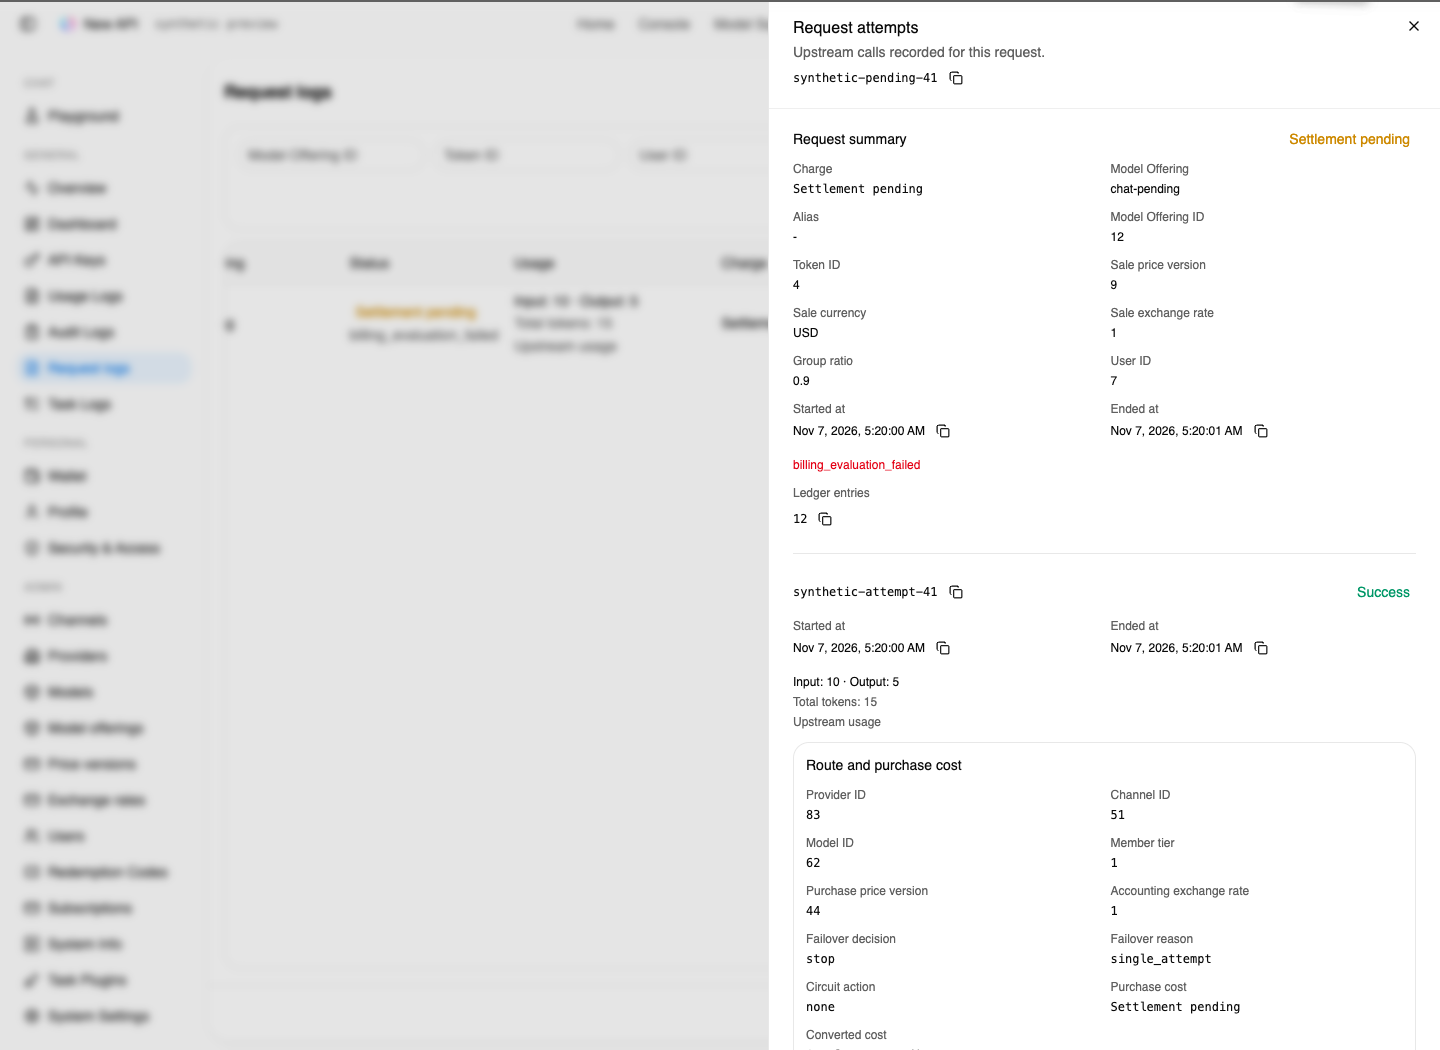
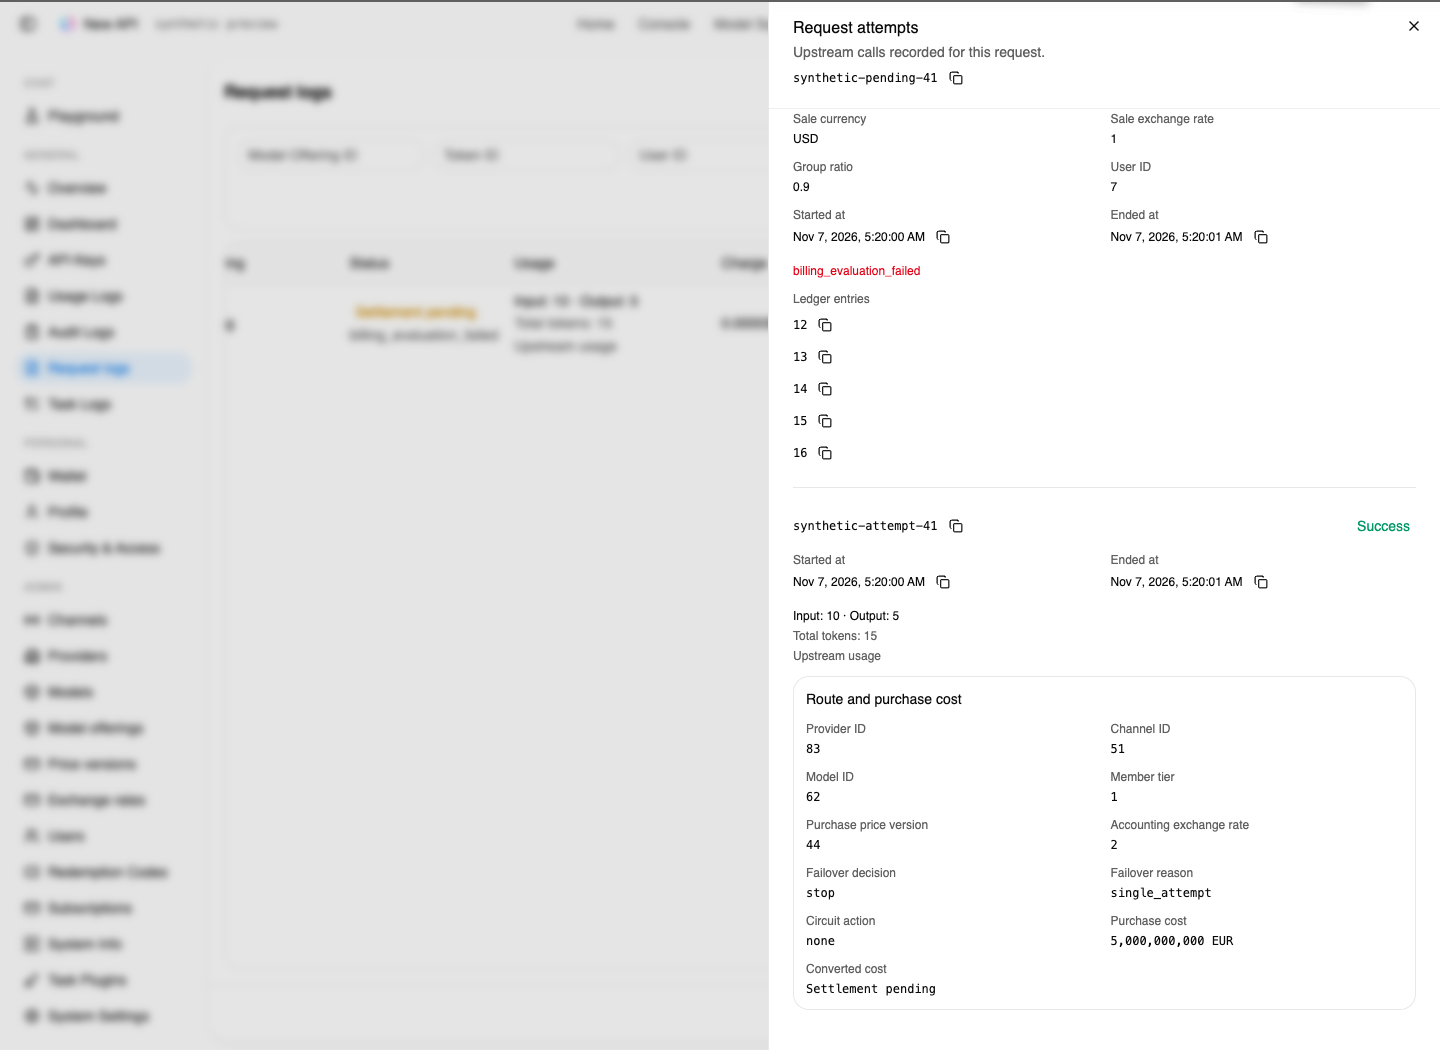
fix: post original-currency costs when accounting conversion overflows (#41)

diff --git a/web/src/features/usage-logs/requests/__tests__/requests.test.tsx b/web/src/features/usage-logs/requests/__tests__/requests.test.tsx
@@ -443,17 +443,19 @@ it('applies supported identity and millisecond date filters and resets them', as
   ).toHaveValue('')
 })
 
-it.each([true, false])(
-  'shows unresolved amounts distinctly from a known zero charge (sale_pending=%s)',
-  async (salePending) => {
-    useAuthStore
-      .getState()
-      .auth.setUser({
-        id: 7,
-        username: 'admin',
-        role: 10,
-        permissions: { admin_permissions: { request: { read: true } } },
-      })
+it.each([
+  { salePending: true, costPending: true },
+  { salePending: false, costPending: true },
+  { salePending: false, costPending: false },
+])(
+  'shows unresolved amounts distinctly from known amounts (sale_pending=$salePending cost_pending=$costPending)',
+  async ({ salePending, costPending }) => {
+    useAuthStore.getState().auth.setUser({
+      id: 7,
+      username: 'admin',
+      role: 10,
+      permissions: { admin_permissions: { request: { read: true } } },
+    })
     api.defaults.adapter = async (config) => {
       const url = new URL(api.getUri(config), 'http://localhost')
       return {
@@ -468,8 +470,13 @@ it.each([true, false])(
               ? [
                   {
                     ...internalAttempt,
-                    cost_pending: true,
-                    cost: { nanos: '0', currency: 'EUR' },
+                    cost_pending: costPending,
+                    converted_cost_pending: true,
+                    accounting_fx_rate: '2',
+                    cost: {
+                      nanos: costPending ? '0' : '5000000000000000000',
+                      currency: 'EUR',
+                    },
                     converted_cost: { nanos: '0', currency: 'USD' },
                   },
                 ]
@@ -506,9 +513,12 @@ it.each([true, false])(
     })
     await within(drawer).findByText(attempt.id)
     expect(within(drawer).queryByText('0 EUR')).not.toBeInTheDocument()
+    if (!costPending) {
+      expect(within(drawer).getByText('5,000,000,000 EUR')).toBeVisible()
+    }
     expect(
       within(drawer).getAllByText('Settlement pending').length
-    ).toBeGreaterThanOrEqual(3)
+    ).toBeGreaterThanOrEqual(2)
     if (salePending) {
       expect(within(drawer).queryByText('0 USD')).not.toBeInTheDocument()
     } else {

diff --git a/web/src/features/usage-logs/requests/components/attempt-admin-facts.tsx b/web/src/features/usage-logs/requests/components/attempt-admin-facts.tsx
@@ -62,7 +62,7 @@ export function AttemptAdminFacts(props: { attempt: RequestAttempt }) {
           <dd className='mt-1'>
             <RequestMoney
               amount={attempt.converted_cost}
-              pending={attempt.cost_pending}
+              pending={attempt.cost_pending || attempt.converted_cost_pending}
             />
           </dd>
         </div>

diff --git a/web/src/features/usage-logs/requests/types.ts b/web/src/features/usage-logs/requests/types.ts
@@ -76,6 +76,7 @@ export interface RequestAttempt {
   purchase_price_version_id?: number
   cost?: MoneyAmount
   cost_pending?: boolean
+  converted_cost_pending?: boolean
   accounting_fx_rate?: string
   converted_cost?: MoneyAmount
   failover_decision?: string

diff --git a/router/relay_router_test.go b/router/relay_router_test.go
@@ -4151,6 +4151,7 @@ func TestTextGatewayEvaluationFailureRetainsPendingAccounting(t *testing.T) {
 		{"mixed pricing condition failure", model.PriceOwnerOffering, `(len == 9 || 1 / (len - 10) > 0) ? tier("request",fixed(0.01)) : tier("tokens",p + c)`, 9000000},
 		{"sale overflow", model.PriceOwnerOffering, `(header("Content-Type") == "application/json" && len != 9) ? tier("overflow",p * (param("rate") ?? 1) + c * 10000000000000000) : tier("base",p * 2 + c * 4)`, 73800},
 		{"sale evaluation", model.PriceOwnerOffering, `len == 9 ? tier("base",p * 2 + c * 4) : tier("invalid",p / (len - 10))`, 73800},
+		{"purchase conversion overflow", model.PriceOwnerChannel, `len == 9 ? tier("base",p * 0.5 + c) : tier("expensive",p * 500000000000000)`, 73800},
 		{"purchase overflow", model.PriceOwnerChannel, `len == 9 ? tier("base",p + c * 2) : tier("overflow",p * 1000000000000000 + c * 4)`, 73800},
 		{"purchase evaluation", model.PriceOwnerChannel, `len == 9 ? tier("base",p + c * 2) : tier("invalid",p / (len - 10))`, 73800},
 	} {
@@ -4159,13 +4160,23 @@ func TestTextGatewayEvaluationFailureRetainsPendingAccounting(t *testing.T) {
 			fixture := newTextGatewayFixture(t, func(w http.ResponseWriter, r *http.Request) {
 				calls++
 				w.Header().Set("Content-Type", "application/json")
+				if test.name == "purchase conversion overflow" && calls > 1 {
+					_, _ = w.Write([]byte(`{"choices":[{"message":{"content":"Hello"},"finish_reason":"stop"}],"usage":{"prompt_tokens":9,"completion_tokens":1}}`))
+					return
+				}
 				_, _ = w.Write([]byte(`{"choices":[{"message":{"content":"Hello"},"finish_reason":"stop"}],"usage":{"prompt_tokens":10,"completion_tokens":5,"prompt_tokens_details":{"cached_tokens":2,"cached_tokens_details":{"text_tokens":1,"image_tokens":1},"image_tokens":2},"completion_tokens_details":{"reasoning_tokens":1},"cost":{"credential":"quantitative-secret"},"usage_source":"quantitative-secret","usage_semantic":"quantitative-secret"}}`))
 			})
 			ownerID := fixture.offering.ID
 			if test.owner == model.PriceOwnerChannel {
 				ownerID = fixture.channel.ID
 			}
-			price := &model.PriceVersion{OwnerType: test.owner, OwnerID: ownerID, Currency: "USD", Expression: test.expression, EffectiveAt: clock.Now().Unix()}
+			currency := money.Currency("USD")
+			if test.name == "purchase conversion overflow" {
+				currency = "EUR"
+				_, err := model.SaveFXRate(t.Context(), "EUR", "USD", "2", "0.02", fixture.sale.CreatedBy)
+				require.NoError(t, err)
+			}
+			price := &model.PriceVersion{OwnerType: test.owner, OwnerID: ownerID, Currency: currency, Expression: test.expression, EffectiveAt: clock.Now().Unix()}
 			require.NoError(t, model.CreatePriceVersion(t.Context(), price, fixture.sale.CreatedBy))
 			healthy := model.GatewayRequest{ID: "zz-healthy-pending", UserID: fixture.user.Id, SaleFXRate: "1", SaleCurrency: "USD", Receivable: money.Amount{Currency: "USD"}, Status: "failed"}
 			zero := money.Amount{Currency: "USD"}
@@ -4213,7 +4224,11 @@ func TestTextGatewayEvaluationFailureRetainsPendingAccounting(t *testing.T) {
 			adminAttempts := walletAPIRequest(t, fixture.engine, fixture.adminPAT, http.MethodGet, "/api/admin/v1/requests/"+id+"/attempts", "")
 			require.True(t, adminAttempts.Success, adminAttempts.Message)
 			adminAttempt := adminAttempts.Data["items"].([]any)[0].(map[string]any)
-			if test.owner == model.PriceOwnerChannel {
+			if test.name == "purchase conversion overflow" {
+				assert.NotEqual(t, true, adminAttempt["cost_pending"])
+				assert.Equal(t, true, adminAttempt["converted_cost_pending"])
+				assert.Equal(t, map[string]any{"nanos": "5000000000000000000", "currency": "EUR"}, adminAttempt["cost"])
+			} else if test.owner == model.PriceOwnerChannel {
 				assert.Equal(t, true, adminAttempt["cost_pending"])
 			} else {
 				assert.NotEqual(t, true, adminAttempt["cost_pending"])
@@ -4281,6 +4296,7 @@ func TestTextGatewayEvaluationFailureRetainsPendingAccounting(t *testing.T) {
 			selfAttempt := self.Data["items"].([]any)[0].(map[string]any)
 			assert.NotContains(t, selfAttempt, "cost")
 			assert.NotContains(t, selfAttempt, "cost_pending")
+			assert.NotContains(t, selfAttempt, "converted_cost_pending")
 			assert.NotContains(t, selfAttempt, "purchase_expression")
 			other := createWalletTestAccessToken(t, fixture.sale.CreatedBy, "log:read")
 			denied := adminSecurityRequest(fixture.engine, other, http.MethodGet, "/api/requests/self/"+id+"/attempts", "")
@@ -4313,6 +4329,11 @@ func TestTextGatewayEvaluationFailureRetainsPendingAccounting(t *testing.T) {
 				require.Len(t, postings, 2, "known Provider costs must be posted even while the sale needs reconciliation")
 				assert.Equal(t, model.LedgerAccountProviderPayable, postings[1].AccountType)
 				assert.Equal(t, int64(20000), postings[1].Amount.Nanos)
+			} else if test.name == "purchase conversion overflow" {
+				require.Len(t, postings, 5)
+				assert.Equal(t, model.LedgerAccountProviderPayable, postings[4].AccountType)
+				assert.Equal(t, money.Amount{Nanos: 5000000000000000000, Currency: "EUR"}, postings[4].Amount)
+				assert.Equal(t, "2", postings[4].FxRate.Decimal.String())
 			} else {
 				require.Len(t, postings, 4)
 			}

diff --git a/controller/text_gateway.go b/controller/text_gateway.go
@@ -448,16 +448,17 @@ func runTextGatewayAttempt(c *gin.Context, run *textGatewayRun, budget *service.
 					run.attemptTrace = make(map[string]billingexpr.MoneyTraceResult)
 				}
 				run.attemptTrace[attempt.ID] = costTrace
-				if priceErr == nil {
-					attempt.Cost, priceErr = cost.Cost()
+				originalCost, originalErr := cost.Cost()
+				attempt.CostPending = originalErr != nil || originalCost.Currency != purchase.Currency
+				if !attempt.CostPending {
+					attempt.Cost = originalCost
 				}
-				if priceErr == nil {
-					attempt.ConvertedCost, priceErr = converted.Cost()
+				convertedCost, convertedErr := converted.Cost()
+				attempt.ConvertedCostPending = convertedErr != nil || convertedCost.Currency != model.SettlementCurrency()
+				if !attempt.ConvertedCostPending {
+					attempt.ConvertedCost = convertedCost
 				}
-				if priceErr != nil {
-					attempt.CostPending = true
-					attempt.Cost = money.Amount{Currency: purchase.Currency}
-					attempt.ConvertedCost = money.Amount{Currency: model.SettlementCurrency()}
+				if priceErr != nil || attempt.CostPending || attempt.ConvertedCostPending {
 					run.evaluationFailed = true
 					record.ErrorCode = "billing_evaluation_failed"
 				}

diff --git a/model/gateway_record.go b/model/gateway_record.go
@@ -57,6 +57,7 @@ func (GatewayRequest) TableName() string { return "gateway_requests" }
 
 type GatewayAttempt struct {
 	CostPending            bool           `json:"cost_pending,omitempty" gorm:"-"`
+	ConvertedCostPending   bool           `json:"converted_cost_pending,omitempty" gorm:"-"`
 	ID                     string         `json:"id" gorm:"type:varchar(64);primaryKey"`
 	RequestID              string         `json:"request_id" gorm:"type:varchar(64);not null;index"`
 	ChannelID              int            `json:"channel_id" gorm:"not null"`

diff --git a/.agents/rules/billing.md b/.agents/rules/billing.md
@@ -36,7 +36,7 @@ Mandatory conventions for quota, pricing, pre-consume, settlement, refund, and u
 - `ReserveGateway` and `SettleGateway` compose the existing ledger posting primitive within the billing lifecycle transaction. They must retain its account locking order, entry validation, append-only history, and balance reconciliation. They must never write balances directly. An explicit free price still has a lifecycle row and records, without zero-valued ledger entries.
 - A request has one reservation and one finalized settlement intent. Replays reuse the intent and idempotency keys. Settlement releases the reservation, charges the user, recognizes platform revenue, and posts each attempt's cost to the Provider payable account in its original currency. A shortfall preserves the complete receivable, recognizes its full revenue once, collects only available funds, and posts the unpaid difference to the user's receivable account. Subsequent credits repay existing debt before producing spendable funds; requests remain paused until all debt is paid. Released reservations also pay older debt before a concurrent request's new charge.
 - Request and attempt records belong in the log database. The primary billing row retains the settlement intent and delivery outbox so log database failures cannot cause another charge. Recovery first imports immutable intent files idempotently, then retries prepared settlements and unpublished finalized records. Before reserving funds, verify journal storage. Write final intents with atomic publication and file/directory synchronization before preparing them in the primary database; remove a file only after its intent is committed. `GATEWAY_SETTLEMENT_JOURNAL_DIR` defaults to `gateway-settlements` under the configured log directory and requires persistent writable storage on each serving node. Files contain quantitative settlement facts, without request content or usable credentials. Recovery must not refund a potentially active reservation solely because time elapsed.
-- An actual monetary evaluation failure or overflow must never finalize the reservation as the actual receivable or purchase cost. Persist the original quantitative usage, frozen prices and FX, pricing-condition decisions and any computed unrounded amount with its currency in the existing immutable `GatewayBilling` settlement intent. An amount that exceeds the posting range remains exact in the evaluator trace; never save a rounded substitute or raw request probes. Keep the reservation and reject later requests, even after credits, only while the sale amount is unknown or its finalized intent is not posted. Known attempt costs still post once when sale evaluation fails. Expose unfinished accounting as `settlement_pending` through the existing record APIs; unresolved evaluations retain phase `evaluation_failed`. A pending procurement evaluation belongs to the platform: settle the known user receivable once, including full release for failed delivery, and post each known attempt cost once while retaining unknown costs for reconciliation. Recovery reports unresolved evaluations without starving other recoverable settlements. API `sale_pending` / administrator-only `cost_pending` flags identify unresolved zero fields; the UI must display them as pending amounts, not free finalized charges. Resolution requires reconciliation of the frozen facts; recovery must not silently reprice against current configuration. A failed request whose pricing leaves are all `fixed()` owes zero even if a pricing condition fails before selecting a leaf.
+- An actual monetary evaluation failure or overflow must never finalize the reservation as the actual receivable or purchase cost. Persist the original quantitative usage, frozen prices and FX, pricing-condition decisions and any computed unrounded amount with its currency in the existing immutable `GatewayBilling` settlement intent. An amount that exceeds the posting range remains exact in the evaluator trace; never save a rounded substitute or raw request probes. Keep the reservation and reject later requests, even after credits, only while the sale amount is unknown or its finalized intent is not posted. Known attempt costs still post once when sale evaluation fails. Expose unfinished accounting as `settlement_pending` through the existing record APIs; unresolved evaluations retain phase `evaluation_failed`. A pending procurement evaluation belongs to the platform: settle the known user receivable once, including full release for failed delivery, and post each known attempt cost once while retaining unknown costs for reconciliation. Recovery reports unresolved evaluations without starving other recoverable settlements. API `sale_pending` / administrator-only `cost_pending` and `converted_cost_pending` flags identify unresolved zero fields; the UI must display them as pending amounts, not free finalized charges. A failed FX conversion cannot erase or delay a known original-currency Provider payable. Resolution requires reconciliation of the frozen facts; recovery must not silently reprice against current configuration. A failed request whose pricing leaves are all `fixed()` owes zero even if a pricing condition fails before selecting a leaf.
 - No-output failures release the full reservation. A fixed request price is charged only on success. Preserve the distinction between an explicit upstream zero and missing usage; mark local estimates as estimated. Output limits are budgets, never actual input or output usage. Route diagnostics and purchase details are administrator-only.
 
 **Billing safety invariants:** Quota/billing code MUST never produce a negative charge (a credit) from arithmetic overflow or unvalidated input. Apply defense in depth:
